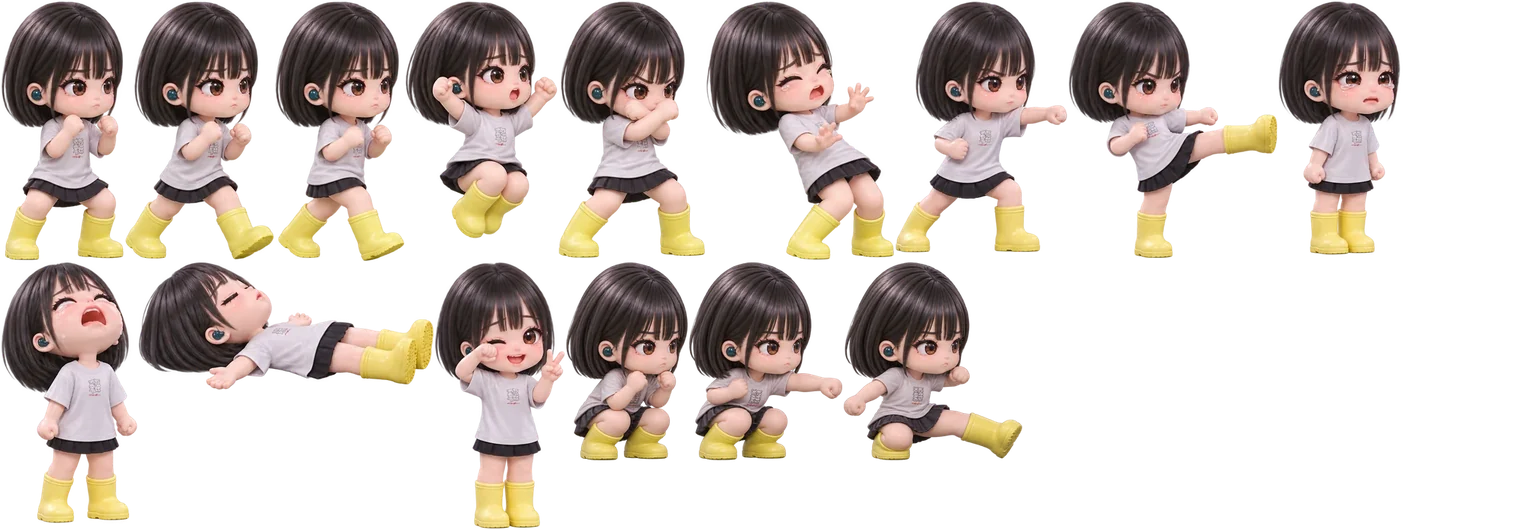
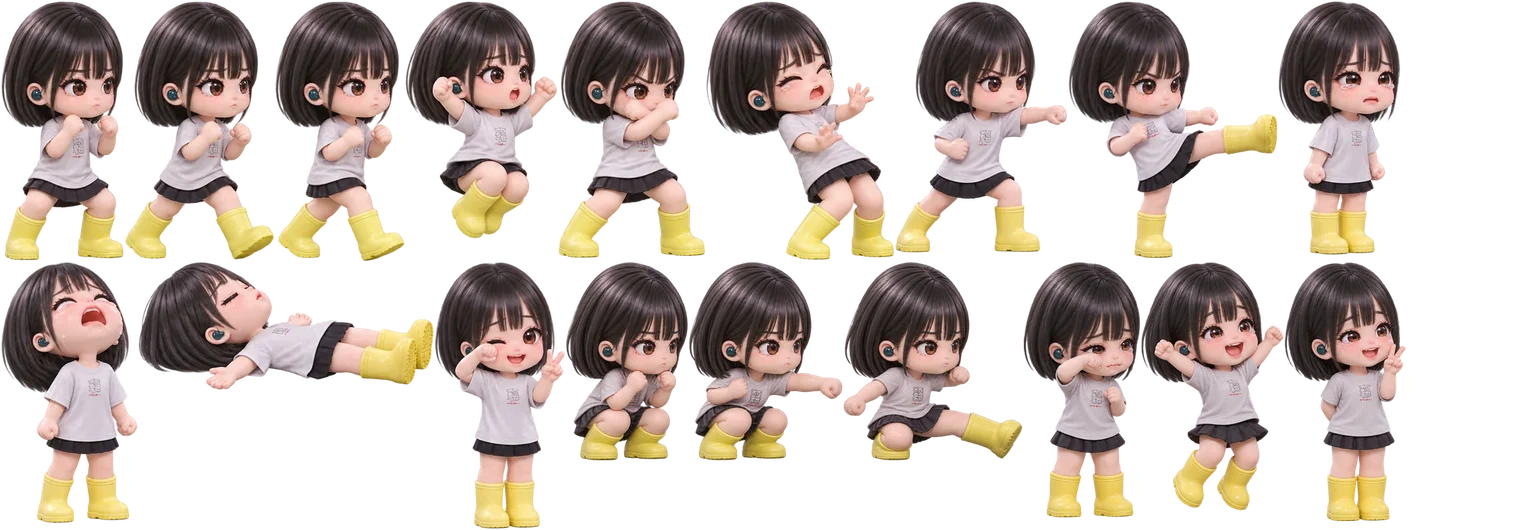
Add victory motions for the other fourteen fighters

Changed region(s): [[0.6451, 0.483, 0.9216, 0.9962]]

diff --git a/js/data.js b/js/data.js
@@ -1,5 +1,5 @@
 'use strict';
-const META={"Q":{"frames":{"idle":[2,2,203,420,107.0],"walk1":[207,2,246,419,122.5],"walk2":[455,2,252,418,125.5],"jump":[709,2,246,367,123.0],"guard":[957,2,224,418,126.0],"hit":[1183,2,317,413,214.5],"punch":[1502,2,301,404,127.0],"kick":[2,424,358,415,141.5],"charge":[362,424,243,420,128.5],"special":[607,424,317,406,136.0],"ko":[926,424,423,174,211.5],"win":[1351,424,244,428,101.0],"special2":[1597,424,392,391,229.0],"crouch":[2,854,265,286,144.2],"ckick":[269,854,368,287,120.6],"cpunch":[639,854,349,282,122.5],"win1":[990,854,237,424,119.5],"win2":[1229,854,232,424,87.5],"win3":[1463,854,224,421,95.5]}},"W":{"frames":{"idle":[2,2,209,420,105.5],"walk1":[213,2,265,421,132.5],"walk2":[480,2,236,419,117.5],"jump":[718,2,218,362,109.0],"guard":[938,2,239,413,119.0],"hit":[1179,2,285,411,182.0],"punch":[1466,2,304,405,136.0],"kick":[2,425,344,406,118.5],"charge":[348,425,280,462,159.0],"special":[630,425,430,400,144.0],"ko":[1062,425,454,200,227.0],"win":[1518,425,203,428,101.0],"special2":[2,889,371,378,261.0],"crouch":[375,889,220,309,110.5],"cpunch":[597,889,275,306,103.0],"ckick":[874,889,328,306,96.0]}},"E":{"frames":{"idle":[2,2,218,458,112.0],"walk1":[222,2,250,462,124.5],"walk2":[474,2,252,461,125.5],"jump":[728,2,209,378,104.5],"guard":[939,2,244,452,121.5],"hit":[1185,2,338,449,209.0],"punch":[1525,2,322,444,152.0],"kick":[2,466,358,443,117.5],"charge":[362,466,207,513,110.5],"special":[571,466,306,466,153.0],"ko":[879,466,531,186,265.5],"win":[1412,466,206,468,102.5],"special2":[2,981,443,495,194.0],"crouch":[447,981,198,282,107.0],"cpunch":[647,981,255,281,100.0],"ckick":[904,981,304,281,97.0]}},"R":{"frames":{"idle":[2,2,163,372,85.0],"walk1":[167,2,183,373,91.0],"walk2":[352,2,168,376,84.0],"jump":[522,2,184,350,92.0],"guard":[708,2,188,376,99.5],"hit":[898,2,296,353,212.0],"punch":[1196,2,257,359,108.5],"kick":[1455,2,260,361,107.0],"charge":[1717,2,189,383,102.0],"special":[2,387,292,377,100.0],"ko":[296,387,395,158,197.5],"win":[693,387,213,351,83.0],"special2":[908,387,640,559,320.0],"crouch":[1550,387,196,312,100.5],"cpunch":[1748,387,246,312,92.5],"ckick":[2,948,271,310,55.0]}},"G":{"frames":{"idle":[2,2,259,432,129.0],"walk1":[263,2,277,432,138.0],"walk2":[542,2,255,430,129.0],"jump":[799,2,208,374,104.0],"guard":[1009,2,286,423,142.5],"hit":[1297,2,375,417,221.0],"punch":[2,436,387,417,170.0],"kick":[391,436,374,440,118.5],"charge":[767,436,214,432,108.5],"special":[983,436,437,402,165.5],"ko":[1422,436,468,186,234.0],"win":[2,878,215,435,107.0],"crouch":[219,878,227,322,121.0],"cpunch":[448,878,297,322,103.0],"ckick":[747,878,348,320,112.5]}},"B":{"frames":{"idle":[2,2,246,440,122.5],"walk1":[250,2,272,441,135.5],"walk2":[524,2,244,445,120.5],"jump":[770,2,246,396,123.0],"guard":[1018,2,281,428,148.5],"hit":[1301,2,337,436,220.0],"punch":[1640,2,324,424,147.0],"kick":[2,449,349,437,126.0],"charge":[353,449,335,450,198.5],"special":[690,449,397,415,137.0],"ko":[1089,449,450,187,225.0],"win":[1541,449,203,447,106.5],"crouch":[1746,449,202,315,98.5],"cpunch":[2,901,269,313,90.0],"ckick":[273,901,303,312,96.0]}},"Qb":{"frames":{"idle":[2,2,245,525,120.5],"walk1":[249,2,261,528,130.5],"walk2":[512,2,257,527,128.0],"jump":[771,2,262,486,131.0],"guard":[1035,2,271,520,147.0],"hit":[1308,2,420,504,316.0],"punch":[2,532,321,507,133.5],"kick":[325,532,372,513,134.0],"charge":[699,532,241,513,120.0],"special":[942,532,377,510,185.0],"ko":[1321,532,572,222,286.0],"win":[2,1047,224,501,122.5],"crouch":[228,1047,230,352,111.0],"cpunch":[460,1047,253,353,100.0],"ckick":[715,1047,314,353,93.5]}},"Wb":{"frames":{"idle":[2,2,256,500,150.0],"walk1":[260,2,266,505,143.0],"walk2":[528,2,254,505,142.5],"jump":[784,2,270,462,135.0],"guard":[1056,2,281,490,157.0],"hit":[1339,2,382,463,273.0],"punch":[1723,2,302,482,124.5],"kick":[2,509,388,482,173.0],"charge":[392,509,339,479,153.0],"special":[733,509,374,462,217.0],"ko":[1109,509,511,205,255.5],"win":[1622,509,244,463,137.0],"crouch":[2,993,211,366,123.5],"cpunch":[215,993,257,366,118.0],"ckick":[474,993,311,364,106.5]}},"Eb":{"frames":{"idle":[2,2,260,545,139.0],"walk1":[264,2,307,545,153.0],"walk2":[573,2,295,544,147.0],"jump":[870,2,255,439,127.5],"guard":[1127,2,266,538,148.5],"hit":[1395,2,410,539,295.5],"punch":[2,549,368,535,174.5],"kick":[372,549,426,552,140.5],"charge":[800,549,331,552,138.5],"special":[1133,549,436,518,217.5],"ko":[2,1103,664,213,332.0],"win":[668,1103,320,550,181.5],"crouch":[990,1103,233,366,107.0],"cpunch":[1225,1103,259,366,94.0],"ckick":[1486,1103,344,364,98.0]}},"Rb":{"frames":{"idle":[2,2,235,450,117.0],"walk1":[239,2,271,454,135.0],"walk2":[512,2,270,454,137.5],"jump":[784,2,213,407,106.5],"guard":[999,2,258,454,131.5],"hit":[1259,2,338,456,213.0],"punch":[1599,2,317,434,142.0],"kick":[2,460,339,444,87.5],"charge":[343,460,187,444,112.5],"special":[532,460,359,406,153.5],"ko":[893,460,480,195,240.0],"win":[1375,460,203,444,109.0],"crouch":[1580,460,207,322,111.5],"cpunch":[2,906,257,322,102.5],"ckick":[261,906,307,323,91.0]}},"Rc":{"frames":{"idle":[2,2,163,345,83.5],"walk1":[167,2,198,344,98.5],"walk2":[367,2,172,346,87.5],"jump":[541,2,202,316,101.0],"guard":[745,2,195,342,97.0],"hit":[942,2,250,345,177.5],"punch":[1194,2,229,335,96.0],"kick":[1425,2,278,342,113.0],"charge":[1705,2,162,338,84.5],"special":[2,350,181,348,108.5],"ko":[185,350,393,170,196.5],"win":[580,350,173,355,95.5],"crouch":[755,350,162,264,76.5],"cpunch":[919,350,204,264,64.0],"ckick":[1125,350,238,264,70.5]}},"Qc":{"frames":{"idle":[2,2,228,428,114.5],"walk1":[232,2,283,427,141.0],"walk2":[517,2,242,427,124.0],"jump":[761,2,246,377,123.0],"guard":[1009,2,284,415,157.5],"hit":[1295,2,329,418,217.0],"punch":[1626,2,327,413,148.0],"kick":[2,432,391,429,147.0],"charge":[395,432,274,441,147.5],"special":[671,432,411,434,205.0],"ko":[1084,432,474,198,237.0],"win":[1560,432,223,450,111.0],"crouch":[1785,432,212,288,113.0],"cpunch":[2,884,251,288,96.0],"ckick":[255,884,324,288,89.0]}},"Wc":{"frames":{"idle":[2,2,218,440,108.0],"walk1":[222,2,274,439,136.5],"walk2":[498,2,244,441,121.5],"jump":[744,2,226,398,113.0],"guard":[972,2,273,440,136.0],"hit":[1247,2,372,430,243.5],"punch":[1621,2,324,425,141.5],"kick":[2,445,365,430,133.5],"charge":[369,445,316,429,126.0],"special":[687,445,367,415,183.0],"ko":[1056,445,502,205,251.0],"win":[1560,445,240,440,109.5],"crouch":[1802,445,195,282,92.0],"cpunch":[2,887,245,281,77.0],"ckick":[249,887,295,280,81.5]}},"Ec":{"frames":{"idle":[2,2,205,468,101.5],"walk1":[209,2,274,466,136.5],"walk2":[485,2,249,470,124.5],"jump":[736,2,232,403,116.0],"guard":[970,2,232,459,115.5],"hit":[1204,2,298,447,191.0],"punch":[1504,2,354,462,153.5],"kick":[2,474,371,464,104.0],"charge":[375,474,290,473,115.5],"special":[667,474,395,457,181.0],"ko":[1064,474,524,188,262.0],"win":[1590,474,287,477,181.5],"crouch":[2,953,197,264,109.0],"cpunch":[201,953,239,264,94.5],"ckick":[442,953,292,264,84.5]}},"Rd":{"frames":{"idle":[2,2,203,440,101.0],"walk1":[207,2,267,438,133.0],"walk2":[476,2,270,439,134.5],"jump":[748,2,206,387,103.0],"guard":[956,2,239,433,143.5],"hit":[1197,2,325,433,223.0],"punch":[1524,2,295,435,138.0],"kick":[2,444,359,442,112.5],"charge":[363,444,167,443,99.5],"special":[532,444,361,425,136.5],"ko":[895,444,470,170,235.0],"win":[1367,444,206,441,117.5],"crouch":[1575,444,182,288,86.0],"cpunch":[1759,444,232,288,69.5],"ckick":[2,889,300,287,73.5]}}};
+const META={"Q":{"frames":{"idle":[2,2,203,420,107.0],"walk1":[207,2,246,419,122.5],"walk2":[455,2,252,418,125.5],"jump":[709,2,246,367,123.0],"guard":[957,2,224,418,126.0],"hit":[1183,2,317,413,214.5],"punch":[1502,2,301,404,127.0],"kick":[2,424,358,415,141.5],"charge":[362,424,243,420,128.5],"special":[607,424,317,406,136.0],"ko":[926,424,423,174,211.5],"win":[1351,424,244,428,101.0],"special2":[1597,424,392,391,229.0],"crouch":[2,854,265,286,144.2],"ckick":[269,854,368,287,120.6],"cpunch":[639,854,349,282,122.5],"win1":[990,854,261,414,132.0],"win2":[1253,854,255,455,96.5],"win3":[1510,854,246,420,105.0]}},"W":{"frames":{"idle":[2,2,209,420,105.5],"walk1":[213,2,265,421,132.5],"walk2":[480,2,236,419,117.5],"jump":[718,2,218,362,109.0],"guard":[938,2,239,413,119.0],"hit":[1179,2,285,411,182.0],"punch":[1466,2,304,405,136.0],"kick":[2,425,344,406,118.5],"charge":[348,425,280,462,159.0],"special":[630,425,430,400,144.0],"ko":[1062,425,454,200,227.0],"win":[1518,425,203,428,101.0],"special2":[2,889,371,378,261.0],"crouch":[375,889,220,309,110.5],"cpunch":[597,889,275,306,103.0],"ckick":[874,889,328,306,96.0],"win1":[1204,889,328,418,174.0],"win2":[1534,889,257,439,149.0],"win3":[1793,889,213,420,104.5]}},"E":{"frames":{"idle":[2,2,218,458,112.0],"walk1":[222,2,250,462,124.5],"walk2":[474,2,252,461,125.5],"jump":[728,2,209,378,104.5],"guard":[939,2,244,452,121.5],"hit":[1185,2,338,449,209.0],"punch":[1525,2,322,444,152.0],"kick":[2,466,358,443,117.5],"charge":[362,466,207,513,110.5],"special":[571,466,306,466,153.0],"ko":[879,466,531,186,265.5],"win":[1412,466,206,468,102.5],"special2":[2,981,443,495,194.0],"crouch":[447,981,198,282,107.0],"cpunch":[647,981,255,281,100.0],"ckick":[904,981,304,281,97.0],"win1":[1210,981,223,430,109.5],"win2":[1435,981,221,470,107.0],"win3":[1658,981,180,459,86.5]}},"R":{"frames":{"idle":[2,2,163,372,85.0],"walk1":[167,2,183,373,91.0],"walk2":[352,2,168,376,84.0],"jump":[522,2,184,350,92.0],"guard":[708,2,188,376,99.5],"hit":[898,2,296,353,212.0],"punch":[1196,2,257,359,108.5],"kick":[1455,2,260,361,107.0],"charge":[1717,2,189,383,102.0],"special":[2,387,292,377,100.0],"ko":[296,387,395,158,197.5],"win":[693,387,213,351,83.0],"special2":[908,387,640,559,320.0],"crouch":[1550,387,196,312,100.5],"cpunch":[1748,387,246,312,92.5],"ckick":[2,948,271,310,55.0],"win1":[275,948,206,373,102.5],"win2":[483,948,217,374,96.0],"win3":[702,948,170,372,93.0]}},"G":{"frames":{"idle":[2,2,259,432,129.0],"walk1":[263,2,277,432,138.0],"walk2":[542,2,255,430,129.0],"jump":[799,2,208,374,104.0],"guard":[1009,2,286,423,142.5],"hit":[1297,2,375,417,221.0],"punch":[2,436,387,417,170.0],"kick":[391,436,374,440,118.5],"charge":[767,436,214,432,108.5],"special":[983,436,437,402,165.5],"ko":[1422,436,468,186,234.0],"win":[2,878,215,435,107.0],"crouch":[219,878,227,322,121.0],"cpunch":[448,878,297,322,103.0],"ckick":[747,878,348,320,112.5],"win1":[1097,878,227,425,110.5],"win2":[1326,878,221,427,94.5],"win3":[1549,878,200,432,83.0]}},"B":{"frames":{"idle":[2,2,246,440,122.5],"walk1":[250,2,272,441,135.5],"walk2":[524,2,244,445,120.5],"jump":[770,2,246,396,123.0],"guard":[1018,2,281,428,148.5],"hit":[1301,2,337,436,220.0],"punch":[1640,2,324,424,147.0],"kick":[2,449,349,437,126.0],"charge":[353,449,335,450,198.5],"special":[690,449,397,415,137.0],"ko":[1089,449,450,187,225.0],"win":[1541,449,203,447,106.5],"crouch":[1746,449,202,315,98.5],"cpunch":[2,901,269,313,90.0],"ckick":[273,901,303,312,96.0],"win1":[578,901,246,430,108.5],"win2":[826,901,255,425,115.5],"win3":[1083,901,213,440,100.0]}},"Qb":{"frames":{"idle":[2,2,245,525,120.5],"walk1":[249,2,261,528,130.5],"walk2":[512,2,257,527,128.0],"jump":[771,2,262,486,131.0],"guard":[1035,2,271,520,147.0],"hit":[1308,2,420,504,316.0],"punch":[2,532,321,507,133.5],"kick":[325,532,372,513,134.0],"charge":[699,532,241,513,120.0],"special":[942,532,377,510,185.0],"ko":[1321,532,572,222,286.0],"win":[2,1047,224,501,122.5],"crouch":[228,1047,230,352,111.0],"cpunch":[460,1047,253,353,100.0],"ckick":[715,1047,314,353,93.5],"win1":[1031,1047,264,537,122.0],"win2":[1297,1047,238,538,125.5],"win3":[1537,1047,219,525,116.5]}},"Wb":{"frames":{"idle":[2,2,256,500,150.0],"walk1":[260,2,266,505,143.0],"walk2":[528,2,254,505,142.5],"jump":[784,2,270,462,135.0],"guard":[1056,2,281,490,157.0],"hit":[1339,2,382,463,273.0],"punch":[1723,2,302,482,124.5],"kick":[2,509,388,482,173.0],"charge":[392,509,339,479,153.0],"special":[733,509,374,462,217.0],"ko":[1109,509,511,205,255.5],"win":[1622,509,244,463,137.0],"crouch":[2,993,211,366,123.5],"cpunch":[215,993,257,366,118.0],"ckick":[474,993,311,364,106.5],"win1":[787,993,282,503,157.0],"win2":[1071,993,329,509,157.5],"win3":[1402,993,276,500,151.5]}},"Eb":{"frames":{"idle":[2,2,260,545,139.0],"walk1":[264,2,307,545,153.0],"walk2":[573,2,295,544,147.0],"jump":[870,2,255,439,127.5],"guard":[1127,2,266,538,148.5],"hit":[1395,2,410,539,295.5],"punch":[2,549,368,535,174.5],"kick":[372,549,426,552,140.5],"charge":[800,549,331,552,138.5],"special":[1133,549,436,518,217.5],"ko":[2,1103,664,213,332.0],"win":[668,1103,320,550,181.5],"crouch":[990,1103,233,366,107.0],"cpunch":[1225,1103,259,366,94.0],"ckick":[1486,1103,344,364,98.0],"win1":[2,1655,275,547,145.0],"win2":[279,1655,241,555,139.0],"win3":[522,1655,253,545,130.0]}},"Rb":{"frames":{"idle":[2,2,235,450,117.0],"walk1":[239,2,271,454,135.0],"walk2":[512,2,270,454,137.5],"jump":[784,2,213,407,106.5],"guard":[999,2,258,454,131.5],"hit":[1259,2,338,456,213.0],"punch":[1599,2,317,434,142.0],"kick":[2,460,339,444,87.5],"charge":[343,460,187,444,112.5],"special":[532,460,359,406,153.5],"ko":[893,460,480,195,240.0],"win":[1375,460,203,444,109.0],"crouch":[1580,460,207,322,111.5],"cpunch":[2,906,257,322,102.5],"ckick":[261,906,307,323,91.0],"win1":[570,906,232,432,103.0],"win2":[804,906,219,464,105.5],"win3":[1025,906,204,450,110.0]}},"Rc":{"frames":{"idle":[2,2,163,345,83.5],"walk1":[167,2,198,344,98.5],"walk2":[367,2,172,346,87.5],"jump":[541,2,202,316,101.0],"guard":[745,2,195,342,97.0],"hit":[942,2,250,345,177.5],"punch":[1194,2,229,335,96.0],"kick":[1425,2,278,342,113.0],"charge":[1705,2,162,338,84.5],"special":[2,350,181,348,108.5],"ko":[185,350,393,170,196.5],"win":[580,350,173,355,95.5],"crouch":[755,350,162,264,76.5],"cpunch":[919,350,204,264,64.0],"ckick":[1125,350,238,264,70.5],"win1":[1365,350,155,341,84.5],"win2":[1522,350,189,350,101.0],"win3":[1713,350,161,345,95.5]}},"Qc":{"frames":{"idle":[2,2,228,428,114.5],"walk1":[232,2,283,427,141.0],"walk2":[517,2,242,427,124.0],"jump":[761,2,246,377,123.0],"guard":[1009,2,284,415,157.5],"hit":[1295,2,329,418,217.0],"punch":[1626,2,327,413,148.0],"kick":[2,432,391,429,147.0],"charge":[395,432,274,441,147.5],"special":[671,432,411,434,205.0],"ko":[1084,432,474,198,237.0],"win":[1560,432,223,450,111.0],"crouch":[1785,432,212,288,113.0],"cpunch":[2,884,251,288,96.0],"ckick":[255,884,324,288,89.0],"win1":[581,884,303,425,168.5],"win2":[886,884,221,451,127.0],"win3":[1109,884,209,429,104.0]}},"Wc":{"frames":{"idle":[2,2,218,440,108.0],"walk1":[222,2,274,439,136.5],"walk2":[498,2,244,441,121.5],"jump":[744,2,226,398,113.0],"guard":[972,2,273,440,136.0],"hit":[1247,2,372,430,243.5],"punch":[1621,2,324,425,141.5],"kick":[2,445,365,430,133.5],"charge":[369,445,316,429,126.0],"special":[687,445,367,415,183.0],"ko":[1056,445,502,205,251.0],"win":[1560,445,240,440,109.5],"crouch":[1802,445,195,282,92.0],"cpunch":[2,887,245,281,77.0],"ckick":[249,887,295,280,81.5],"win1":[546,887,255,464,128.0],"win2":[803,887,268,472,131.5],"win3":[1073,887,256,440,124.0]}},"Ec":{"frames":{"idle":[2,2,205,468,101.5],"walk1":[209,2,274,466,136.5],"walk2":[485,2,249,470,124.5],"jump":[736,2,232,403,116.0],"guard":[970,2,232,459,115.5],"hit":[1204,2,298,447,191.0],"punch":[1504,2,354,462,153.5],"kick":[2,474,371,464,104.0],"charge":[375,474,290,473,115.5],"special":[667,474,395,457,181.0],"ko":[1064,474,524,188,262.0],"win":[1590,474,287,477,181.5],"crouch":[2,953,197,264,109.0],"cpunch":[201,953,239,264,94.5],"ckick":[442,953,292,264,84.5],"win1":[736,953,229,468,102.5],"win2":[967,953,214,492,95.0],"win3":[1183,953,202,468,93.0]}},"Rd":{"frames":{"idle":[2,2,203,440,101.0],"walk1":[207,2,267,438,133.0],"walk2":[476,2,270,439,134.5],"jump":[748,2,206,387,103.0],"guard":[956,2,239,433,143.5],"hit":[1197,2,325,433,223.0],"punch":[1524,2,295,435,138.0],"kick":[2,444,359,442,112.5],"charge":[363,444,167,443,99.5],"special":[532,444,361,425,136.5],"ko":[895,444,470,170,235.0],"win":[1367,444,206,441,117.5],"crouch":[1575,444,182,288,86.0],"cpunch":[1759,444,232,288,69.5],"ckick":[2,889,300,287,73.5],"win1":[304,889,226,439,83.5],"win2":[532,889,198,461,94.5],"win3":[732,889,205,440,101.0]}}};
 const CH={
  Q:{name:'Q',col:'#b7a2ff',hp:98,speed:278,jump:825,pd:9,kd:14,reach:8,timing:1.07,guard:1,special:1.03,role:'강타 복서',tradeoff:'펀치와 킥이 강해요. 공격이 빗나가면 빈틈이 커요.'},
  W:{name:'W',col:'#ff6b8e',hp:104,speed:325,jump:795,pd:6,kd:11,reach:25,timing:0.83,guard:0.8,special:1.03,role:'민첩한 중거리 견제',tradeoff:'빠르게 거리를 바꾸며 견제해요. 펀치 피해는 낮아요.'},

diff --git a/js/assetv.js b/js/assetv.js
@@ -1,1 +1,1 @@
-const ASSET_V={"assets/audio/bgm.mp3":"1aaba7b2","assets/audio/qwer-d-day.mp3":"2830167b","assets/audio/qwer-fake-idol.mp3":"d2b479f6","assets/audio/qwer-ferris-wheel.mp3":"120067c3","assets/audio/qwer-fireworks.mp3":"bdbf5ae5","assets/audio/qwer-goodbye-sorrow.mp3":"504b895b","assets/audio/qwer-my-name-is-malguem.mp3":"eebe45ad","assets/audio/qwer-search-qwer.mp3":"e2c33678","assets/audio/qwer-soda.mp3":"25b22c69","assets/audio/qwer-tb-h.mp3":"cb39dc88","assets/audio/voices/R-select.mp3":"966d0bd6","assets/backgrounds/bg_anime.jpg":"513fafd8","assets/backgrounds/bg_aqua.jpg":"bf8baed5","assets/backgrounds/bg_band.jpg":"7a3b0b11","assets/backgrounds/bg_base.jpg":"2f47fb18","assets/backgrounds/bg_beach.jpg":"e6148974","assets/backgrounds/bg_bridge.jpg":"1050382a","assets/backgrounds/bg_chinatown.jpg":"226bb7e5","assets/backgrounds/bg_classroom.jpg":"2ad7efc6","assets/backgrounds/bg_concert.jpg":"5411182e","assets/backgrounds/bg_donut.jpg":"74cc427a","assets/backgrounds/bg_gym.jpg":"7d28c238","assets/backgrounds/bg_hanok.jpg":"72c9d2e4","assets/backgrounds/bg_park.jpg":"f81a3900","assets/backgrounds/bg_rain.jpg":"e8ae5f37","assets/backgrounds/bg_rooftop.jpg":"b1f264c9","assets/backgrounds/bg_snow.jpg":"9be20873","assets/backgrounds/bg_space.jpg":"665d110d","assets/backgrounds/bg_terminal.jpg":"6dca1744","assets/backgrounds/bg_terminal_arcade.jpg":"3bf31ec8","assets/characters/B.webp":"905224de","assets/characters/E.webp":"a04fc63d","assets/characters/Eb.webp":"0bde667b","assets/characters/Ec.webp":"0d3fb22e","assets/characters/G.webp":"d7f9fd85","assets/characters/Q.webp":"b252e39a","assets/characters/Qb.webp":"7a8f53a5","assets/characters/Qc.webp":"e25f9f04","assets/characters/R.webp":"19929a5b","assets/characters/Rb.webp":"1e9810a1","assets/characters/Rc.webp":"9e13b06d","assets/characters/Rd.webp":"e9fda9bb","assets/characters/W.webp":"d74c7d6b","assets/characters/Wb.webp":"505e9592","assets/characters/Wc.webp":"46d4c234","assets/characters/ostrich-r.webp":"f36485a3","assets/emotes/icon_1.webp":"e834c9fc","assets/emotes/icon_13.webp":"ced6be1a","assets/emotes/icon_19.webp":"6eca9b25","assets/emotes/icon_22.webp":"ad3d03f1","assets/emotes/icon_28.webp":"cb4c7512","assets/emotes/icon_33.webp":"57cf40f0","assets/emotes/icon_34.webp":"333682d6","assets/emotes/icon_36.webp":"1de00e10","assets/emotes/icon_38.webp":"52043a2f","assets/emotes/icon_39.webp":"ff33cab9","assets/emotes/icon_41.webp":"3f5fabf0","assets/emotes/icon_45.webp":"addf7b16","assets/emotes/icon_46.webp":"024ab088","assets/emotes/icon_49.webp":"be67b384","assets/emotes/icon_50.webp":"3c880ad8","assets/emotes/icon_57.webp":"7f6e5ae8","assets/emotes/icon_62.webp":"099a9ec7","assets/emotes/icon_65.webp":"d664ad8d","assets/emotes/icon_69.webp":"2050c1ed","assets/emotes/icon_8.webp":"3fe0846f","assets/emotes/icon_87.webp":"905d0d99","assets/emotes/icon_89.webp":"37372a3d","assets/emotes/icon_91.webp":"89b48092","assets/emotes/icon_92.webp":"6fb425ef","assets/emotes/icon_94.webp":"b110da8e","assets/emotes/icon_95.webp":"9a6b4437","assets/emotes/icon_98.webp":"2d258415","assets/emotes/thumb/icon_1.webp":"136837e5","assets/emotes/thumb/icon_13.webp":"5e3867c1","assets/emotes/thumb/icon_19.webp":"d6eb0f03","assets/emotes/thumb/icon_22.webp":"a767fc76","assets/emotes/thumb/icon_28.webp":"86f1c282","assets/emotes/thumb/icon_33.webp":"6408ba02","assets/emotes/thumb/icon_34.webp":"2aa3c54a","assets/emotes/thumb/icon_36.webp":"dc3e9788","assets/emotes/thumb/icon_38.webp":"7f85a09d","assets/emotes/thumb/icon_39.webp":"b1fadb0d","assets/emotes/thumb/icon_41.webp":"7303712b","assets/emotes/thumb/icon_45.webp":"7a1924c5","assets/emotes/thumb/icon_46.webp":"5835c768","assets/emotes/thumb/icon_49.webp":"50c5dac4","assets/emotes/thumb/icon_50.webp":"d23a8087","assets/emotes/thumb/icon_57.webp":"40b0eed8","assets/emotes/thumb/icon_62.webp":"a3d334ca","assets/emotes/thumb/icon_65.webp":"d96399f3","assets/emotes/thumb/icon_69.webp":"75195972","assets/emotes/thumb/icon_8.webp":"c5c82ee8","assets/emotes/thumb/icon_87.webp":"75462682","assets/emotes/thumb/icon_89.webp":"fa2fb05b","assets/emotes/thumb/icon_91.webp":"31208034","assets/emotes/thumb/icon_92.webp":"5de92e6a","assets/emotes/thumb/icon_94.webp":"87c7110b","assets/emotes/thumb/icon_95.webp":"eff04fc8","assets/emotes/thumb/icon_98.webp":"5caa213a","assets/faces/B_face.webp":"b1b04403","assets/faces/E_face.webp":"5a365c76","assets/faces/Eb_face.webp":"52f1f416","assets/faces/Ec_face.webp":"0a22ee57","assets/faces/G_face.webp":"2df10de9","assets/faces/Q_face.webp":"842ad22d","assets/faces/Qb_face.webp":"480c3aff","assets/faces/Qc_face.webp":"30e2ab72","assets/faces/R_face.webp":"646f2d28","assets/faces/Rb_face.webp":"cb5505b5","assets/faces/Rc_face.webp":"025bb463","assets/faces/Rd_face.webp":"f00b88dc","assets/faces/W_face.webp":"c8fbc6b3","assets/faces/Wb_face.webp":"2849e1bc","assets/faces/Wc_face.webp":"2972e762","assets/fonts/BlackHanSans.woff2":"c73265bb","assets/fonts/Bungee.woff2":"8ac97fda","assets/fonts/IBMPlexSansKR-Regular.woff2":"737cb610","assets/fonts/IBMPlexSansKR-SemiBold.woff2":"57c25254","assets/fonts/OFL-BlackHanSans.txt":"380fde59","assets/fonts/OFL-Bungee.txt":"ed00dc15","assets/fonts/OFL-IBMPlexSansKR.txt":"0ae1afdc","assets/fonts/OFL-Pretendard.txt":"18fe4610","assets/fonts/Pretendard-ExtraBold.woff2":"1b077a90","assets/lib/peerjs.min.js":"7e60515a","assets/thumbnails/th_anime.jpg":"b3ed8d6a","assets/thumbnails/th_aqua.jpg":"b6233e26","assets/thumbnails/th_band.jpg":"aa12367e","assets/thumbnails/th_base.jpg":"a0ca34c4","assets/thumbnails/th_beach.jpg":"015c1b5a","assets/thumbnails/th_bridge.jpg":"9602dd89","assets/thumbnails/th_chinatown.jpg":"71309555","assets/thumbnails/th_classroom.jpg":"539fc97d","assets/thumbnails/th_concert.jpg":"b9ed6681","assets/thumbnails/th_donut.jpg":"0606e81c","assets/thumbnails/th_gym.jpg":"4426af79","assets/thumbnails/th_hanok.jpg":"df80f531","assets/thumbnails/th_park.jpg":"cf62f3c3","assets/thumbnails/th_rain.jpg":"515447f1","assets/thumbnails/th_rooftop.jpg":"bfd5d01a","assets/thumbnails/th_snow.jpg":"0159d7c5","assets/thumbnails/th_space.jpg":"5184dfa8","assets/thumbnails/th_terminal.jpg":"62f1e04b","assets/thumbnails/th_terminal_arcade.jpg":"ebf49341","assets/ui/qddup-busan-cover.jpg":"04b05f5f","assets/ui/qddup-busan-share.jpg":"23fca48c","assets/ui/qddup-busan-title.mp4":"1bfd18a7","assets/ui/roster-energy.webp":"add15ffe","assets/ui/roster/B.webp":"7de4b487","assets/ui/roster/E.webp":"940c568d","assets/ui/roster/Eb.webp":"bd00a1c0","assets/ui/roster/Ec.webp":"9044e970","assets/ui/roster/G.webp":"acd26a21","assets/ui/roster/Q.webp":"91b08bca","assets/ui/roster/Qb.webp":"315030af","assets/ui/roster/Qc.webp":"807f094b","assets/ui/roster/R.webp":"3e3bb339","assets/ui/roster/Rb.webp":"536e0533","assets/ui/roster/Rc.webp":"50afe96b","assets/ui/roster/Rd.webp":"08cb5ab8","assets/ui/roster/W.webp":"070725d0","assets/ui/roster/Wb.webp":"c2614728","assets/ui/roster/Wc.webp":"f48d9b9d","assets/ui/title.jpg":"89b0c471","assets/videos/sp_B.mp4":"15b627a9","assets/videos/sp_E2.mp4":"d12e113c","assets/videos/sp_ET.mp4":"803325cf","assets/videos/sp_E_fire.mp4":"370a1644","assets/videos/sp_Eb_fire.mp4":"89f90275","assets/videos/sp_Ec_fire.mp4":"22d94be2","assets/videos/sp_G.mp4":"7a6d975f","assets/videos/sp_GT.mp4":"f78d04ea","assets/videos/sp_Q.mp4":"03ca6ce6","assets/videos/sp_Q2.mp4":"f94778b5","assets/videos/sp_QT.mp4":"b506aa96","assets/videos/sp_Qb.mp4":"4794a599","assets/videos/sp_QbT.mp4":"325666e8","assets/videos/sp_Qc.mp4":"98849dc6","assets/videos/sp_QcT.mp4":"ea9073d1","assets/videos/sp_R.mp4":"5e365d9b","assets/videos/sp_R2.mp4":"4cc11253","assets/videos/sp_RT.mp4":"d017c341","assets/videos/sp_Rb.mp4":"c2c76571","assets/videos/sp_Rc.mp4":"cf1e9842","assets/videos/sp_RcT.mp4":"23feefdc","assets/videos/sp_Rd.mp4":"d3ba4c66","assets/videos/sp_W.mp4":"1b7e4f05","assets/videos/sp_W2.mp4":"16b3aa3b","assets/videos/sp_WT.mp4":"35d74be0","assets/videos/sp_Wb.mp4":"308decd9","assets/videos/sp_WbT.mp4":"88caf26b","assets/videos/sp_Wc.mp4":"b00706bc","assets/videos/sp_WcT.mp4":"f2f383e1"};
+const ASSET_V={"assets/audio/bgm.mp3":"1aaba7b2","assets/audio/qwer-d-day.mp3":"2830167b","assets/audio/qwer-fake-idol.mp3":"d2b479f6","assets/audio/qwer-ferris-wheel.mp3":"120067c3","assets/audio/qwer-fireworks.mp3":"bdbf5ae5","assets/audio/qwer-goodbye-sorrow.mp3":"504b895b","assets/audio/qwer-my-name-is-malguem.mp3":"eebe45ad","assets/audio/qwer-search-qwer.mp3":"e2c33678","assets/audio/qwer-soda.mp3":"25b22c69","assets/audio/qwer-tb-h.mp3":"cb39dc88","assets/audio/voices/R-select.mp3":"966d0bd6","assets/backgrounds/bg_anime.jpg":"513fafd8","assets/backgrounds/bg_aqua.jpg":"bf8baed5","assets/backgrounds/bg_band.jpg":"7a3b0b11","assets/backgrounds/bg_base.jpg":"2f47fb18","assets/backgrounds/bg_beach.jpg":"e6148974","assets/backgrounds/bg_bridge.jpg":"1050382a","assets/backgrounds/bg_chinatown.jpg":"226bb7e5","assets/backgrounds/bg_classroom.jpg":"2ad7efc6","assets/backgrounds/bg_concert.jpg":"5411182e","assets/backgrounds/bg_donut.jpg":"74cc427a","assets/backgrounds/bg_gym.jpg":"7d28c238","assets/backgrounds/bg_hanok.jpg":"72c9d2e4","assets/backgrounds/bg_park.jpg":"f81a3900","assets/backgrounds/bg_rain.jpg":"e8ae5f37","assets/backgrounds/bg_rooftop.jpg":"b1f264c9","assets/backgrounds/bg_snow.jpg":"9be20873","assets/backgrounds/bg_space.jpg":"665d110d","assets/backgrounds/bg_terminal.jpg":"6dca1744","assets/backgrounds/bg_terminal_arcade.jpg":"3bf31ec8","assets/characters/B.webp":"91b09728","assets/characters/E.webp":"76b0fd8f","assets/characters/Eb.webp":"0c02faad","assets/characters/Ec.webp":"6901247e","assets/characters/G.webp":"79c70701","assets/characters/Q.webp":"ebe26317","assets/characters/Qb.webp":"22a242b4","assets/characters/Qc.webp":"25339713","assets/characters/R.webp":"620c71af","assets/characters/Rb.webp":"6d9caae3","assets/characters/Rc.webp":"72970d77","assets/characters/Rd.webp":"3e13534c","assets/characters/W.webp":"124b8c8e","assets/characters/Wb.webp":"5bd84e6d","assets/characters/Wc.webp":"9d730bcb","assets/characters/ostrich-r.webp":"f36485a3","assets/emotes/icon_1.webp":"e834c9fc","assets/emotes/icon_13.webp":"ced6be1a","assets/emotes/icon_19.webp":"6eca9b25","assets/emotes/icon_22.webp":"ad3d03f1","assets/emotes/icon_28.webp":"cb4c7512","assets/emotes/icon_33.webp":"57cf40f0","assets/emotes/icon_34.webp":"333682d6","assets/emotes/icon_36.webp":"1de00e10","assets/emotes/icon_38.webp":"52043a2f","assets/emotes/icon_39.webp":"ff33cab9","assets/emotes/icon_41.webp":"3f5fabf0","assets/emotes/icon_45.webp":"addf7b16","assets/emotes/icon_46.webp":"024ab088","assets/emotes/icon_49.webp":"be67b384","assets/emotes/icon_50.webp":"3c880ad8","assets/emotes/icon_57.webp":"7f6e5ae8","assets/emotes/icon_62.webp":"099a9ec7","assets/emotes/icon_65.webp":"d664ad8d","assets/emotes/icon_69.webp":"2050c1ed","assets/emotes/icon_8.webp":"3fe0846f","assets/emotes/icon_87.webp":"905d0d99","assets/emotes/icon_89.webp":"37372a3d","assets/emotes/icon_91.webp":"89b48092","assets/emotes/icon_92.webp":"6fb425ef","assets/emotes/icon_94.webp":"b110da8e","assets/emotes/icon_95.webp":"9a6b4437","assets/emotes/icon_98.webp":"2d258415","assets/emotes/thumb/icon_1.webp":"136837e5","assets/emotes/thumb/icon_13.webp":"5e3867c1","assets/emotes/thumb/icon_19.webp":"d6eb0f03","assets/emotes/thumb/icon_22.webp":"a767fc76","assets/emotes/thumb/icon_28.webp":"86f1c282","assets/emotes/thumb/icon_33.webp":"6408ba02","assets/emotes/thumb/icon_34.webp":"2aa3c54a","assets/emotes/thumb/icon_36.webp":"dc3e9788","assets/emotes/thumb/icon_38.webp":"7f85a09d","assets/emotes/thumb/icon_39.webp":"b1fadb0d","assets/emotes/thumb/icon_41.webp":"7303712b","assets/emotes/thumb/icon_45.webp":"7a1924c5","assets/emotes/thumb/icon_46.webp":"5835c768","assets/emotes/thumb/icon_49.webp":"50c5dac4","assets/emotes/thumb/icon_50.webp":"d23a8087","assets/emotes/thumb/icon_57.webp":"40b0eed8","assets/emotes/thumb/icon_62.webp":"a3d334ca","assets/emotes/thumb/icon_65.webp":"d96399f3","assets/emotes/thumb/icon_69.webp":"75195972","assets/emotes/thumb/icon_8.webp":"c5c82ee8","assets/emotes/thumb/icon_87.webp":"75462682","assets/emotes/thumb/icon_89.webp":"fa2fb05b","assets/emotes/thumb/icon_91.webp":"31208034","assets/emotes/thumb/icon_92.webp":"5de92e6a","assets/emotes/thumb/icon_94.webp":"87c7110b","assets/emotes/thumb/icon_95.webp":"eff04fc8","assets/emotes/thumb/icon_98.webp":"5caa213a","assets/faces/B_face.webp":"b1b04403","assets/faces/E_face.webp":"5a365c76","assets/faces/Eb_face.webp":"52f1f416","assets/faces/Ec_face.webp":"0a22ee57","assets/faces/G_face.webp":"2df10de9","assets/faces/Q_face.webp":"842ad22d","assets/faces/Qb_face.webp":"480c3aff","assets/faces/Qc_face.webp":"30e2ab72","assets/faces/R_face.webp":"646f2d28","assets/faces/Rb_face.webp":"cb5505b5","assets/faces/Rc_face.webp":"025bb463","assets/faces/Rd_face.webp":"f00b88dc","assets/faces/W_face.webp":"c8fbc6b3","assets/faces/Wb_face.webp":"2849e1bc","assets/faces/Wc_face.webp":"2972e762","assets/fonts/BlackHanSans.woff2":"c73265bb","assets/fonts/Bungee.woff2":"8ac97fda","assets/fonts/IBMPlexSansKR-Regular.woff2":"737cb610","assets/fonts/IBMPlexSansKR-SemiBold.woff2":"57c25254","assets/fonts/OFL-BlackHanSans.txt":"380fde59","assets/fonts/OFL-Bungee.txt":"ed00dc15","assets/fonts/OFL-IBMPlexSansKR.txt":"0ae1afdc","assets/fonts/OFL-Pretendard.txt":"18fe4610","assets/fonts/Pretendard-ExtraBold.woff2":"1b077a90","assets/lib/peerjs.min.js":"7e60515a","assets/thumbnails/th_anime.jpg":"b3ed8d6a","assets/thumbnails/th_aqua.jpg":"b6233e26","assets/thumbnails/th_band.jpg":"aa12367e","assets/thumbnails/th_base.jpg":"a0ca34c4","assets/thumbnails/th_beach.jpg":"015c1b5a","assets/thumbnails/th_bridge.jpg":"9602dd89","assets/thumbnails/th_chinatown.jpg":"71309555","assets/thumbnails/th_classroom.jpg":"539fc97d","assets/thumbnails/th_concert.jpg":"b9ed6681","assets/thumbnails/th_donut.jpg":"0606e81c","assets/thumbnails/th_gym.jpg":"4426af79","assets/thumbnails/th_hanok.jpg":"df80f531","assets/thumbnails/th_park.jpg":"cf62f3c3","assets/thumbnails/th_rain.jpg":"515447f1","assets/thumbnails/th_rooftop.jpg":"bfd5d01a","assets/thumbnails/th_snow.jpg":"0159d7c5","assets/thumbnails/th_space.jpg":"5184dfa8","assets/thumbnails/th_terminal.jpg":"62f1e04b","assets/thumbnails/th_terminal_arcade.jpg":"ebf49341","assets/ui/qddup-busan-cover.jpg":"04b05f5f","assets/ui/qddup-busan-share.jpg":"23fca48c","assets/ui/qddup-busan-title.mp4":"1bfd18a7","assets/ui/roster-energy.webp":"add15ffe","assets/ui/roster/B.webp":"7de4b487","assets/ui/roster/E.webp":"940c568d","assets/ui/roster/Eb.webp":"bd00a1c0","assets/ui/roster/Ec.webp":"9044e970","assets/ui/roster/G.webp":"acd26a21","assets/ui/roster/Q.webp":"91b08bca","assets/ui/roster/Qb.webp":"315030af","assets/ui/roster/Qc.webp":"807f094b","assets/ui/roster/R.webp":"3e3bb339","assets/ui/roster/Rb.webp":"536e0533","assets/ui/roster/Rc.webp":"50afe96b","assets/ui/roster/Rd.webp":"08cb5ab8","assets/ui/roster/W.webp":"070725d0","assets/ui/roster/Wb.webp":"c2614728","assets/ui/roster/Wc.webp":"f48d9b9d","assets/ui/title.jpg":"89b0c471","assets/videos/sp_B.mp4":"15b627a9","assets/videos/sp_E2.mp4":"d12e113c","assets/videos/sp_ET.mp4":"803325cf","assets/videos/sp_E_fire.mp4":"370a1644","assets/videos/sp_Eb_fire.mp4":"89f90275","assets/videos/sp_Ec_fire.mp4":"22d94be2","assets/videos/sp_G.mp4":"7a6d975f","assets/videos/sp_GT.mp4":"f78d04ea","assets/videos/sp_Q.mp4":"03ca6ce6","assets/videos/sp_Q2.mp4":"f94778b5","assets/videos/sp_QT.mp4":"b506aa96","assets/videos/sp_Qb.mp4":"4794a599","assets/videos/sp_QbT.mp4":"325666e8","assets/videos/sp_Qc.mp4":"98849dc6","assets/videos/sp_QcT.mp4":"ea9073d1","assets/videos/sp_R.mp4":"5e365d9b","assets/videos/sp_R2.mp4":"4cc11253","assets/videos/sp_RT.mp4":"d017c341","assets/videos/sp_Rb.mp4":"c2c76571","assets/videos/sp_Rc.mp4":"cf1e9842","assets/videos/sp_RcT.mp4":"23feefdc","assets/videos/sp_Rd.mp4":"d3ba4c66","assets/videos/sp_W.mp4":"1b7e4f05","assets/videos/sp_W2.mp4":"16b3aa3b","assets/videos/sp_WT.mp4":"35d74be0","assets/videos/sp_Wb.mp4":"308decd9","assets/videos/sp_WbT.mp4":"88caf26b","assets/videos/sp_Wc.mp4":"b00706bc","assets/videos/sp_WcT.mp4":"f2f383e1"};

diff --git a/index.html b/index.html
@@ -117,8 +117,8 @@
 </section>
 <div id="load"><div id="loadT">LOADING</div><div class="gauge"><i id="loadFill"></i></div><div id="loadPct">0%</div></div>
 
-<script src="js/assetv.js?v=4b3fae19"></script>
-<script src="js/data.js?v=204cffe7"></script>
+<script src="js/assetv.js?v=5904706d"></script>
+<script src="js/data.js?v=ecf823d6"></script>
 <script src="js/audio.js?v=8b974028"></script>
 <script src="js/screens.js?v=5b26946d"></script>
 <script src="js/online.js?v=f758bf1d"></script>

diff --git a/server/cloudflare/slice_motion.py b/server/cloudflare/slice_motion.py
@@ -3,6 +3,9 @@ from PIL import Image
 from slice_crouch import ART, ALPHA_CUT, clean, columns, foot_x
 
 
+HALO_CUT = int(os.environ.get('HALO_CUT', '100'))
+
+
 def split(sheet, count):
     cols = columns(sheet.getchannel('A'))
     runs, start = [], None
@@ -31,13 +34,17 @@ def head_width(im, top):
 
 def main(ch, sheet_path, names, scale_arg):
     sheet = Image.open(sheet_path).convert('RGBA')
+    r, g, b, a = sheet.split()
+    sheet = Image.merge('RGBA', (r, g, b, a.point(lambda v: 0 if v < HALO_CUT else v)))
     full = sheet.getbbox()
     poses = split(sheet.crop((0, full[1], sheet.width, full[3])), len(names))
     boxes = [p.getbbox() for p in poses]
     base = max(b[3] for b in boxes)
     folder = os.path.join(ART, ch)
     idle = Image.open(os.path.join(folder, 'idle.png')).convert('RGBA')
-    if scale_arg == 'auto':
+    if scale_arg == 'stand':
+        scale = idle.height / clean(poses[-1]).height
+    elif scale_arg == 'auto':
         firsts = [clean(p) for p in poses]
         scale = head_width(idle, .35) / max(head_width(p, .35) for p in firsts)
     else:

diff --git a/TODO.md b/TODO.md
@@ -2,7 +2,8 @@
 
 ## 남은 일
 - 정식 전환: 기존 랭킹을 한 번 더 옮기고(`server/cloudflare/import-legacy.mjs`), 게임 파일을 GitHub Pages(`luckingx2.github.io/qddup-fight`)에 올리기
-- 승리 모션: Q 시범 완료. 나머지 14명의 `win1`~`win3` 그림 만들기. 최종 승리 때 승리 애니메이션(영상)은 시범부터
+- 최종 승리 때 승리 애니메이션(영상): 한두 명 시범부터
+- 승리 모션의 재생 속도와 발 위치를 실제 대전에서 확인하기
 - 모바일 화면: 새 캐릭터 선택 화면의 세로·가로 배치 점검
 - 추가된 배경음악 6곡을 96kbps로 줄이기
 - 끊김 판정을 남은 체력 숫자가 아니라 최대 체력 대비 비율로 바꾸기 (캐릭터마다 최대 체력이 다름)
@@ -72,3 +73,9 @@
 - `render.js`: 시트에 `win1`이 있는 캐릭터는 승리 때 `win1` → `win2` → `win3` → `win` 순서로 재생. 없는 캐릭터는 기존처럼 `win` 한 장
 - `slice_motion.py`: 여러 자세가 든 시트를 동작별 PNG로 자르는 도구 추가
 - `pack.py`, `slice_crouch.py`: 줄바꿈 문자열이 깨져 실행되지 않던 문제 수정
+
+**승리 모션 (15명 전체)**
+- 나머지 14명의 `win1.png`, `win2.png`, `win3.png` 추가, 15명 시트 다시 묶음. 승리 때 `win1` → `win2` → `win3` → `win` 순서로 재생
+- 동작: W 하트, E 고양이 손, R 도넛, EGG 수염·선글라스·팔짱, BING 카메라, Q2 드럼스틱·토끼 손, W2 손가락 하트, E2 더블 브이, R2 외치기, Q3 인사, W3 페인트 롤러, E3 주먹 불기, R3 통굽 구르기, R4 눈물 닦고 브이
+- Q의 승리 동작 크기를 서 있는 키 기준으로 다시 맞춤
+- `slice_motion.py`: 그림 주변의 옅은 잔상과 후광을 지운 뒤 자르도록 수정 (`HALO_CUT`), 서 있는 자세 키 기준 크기 맞춤(`stand`) 추가
